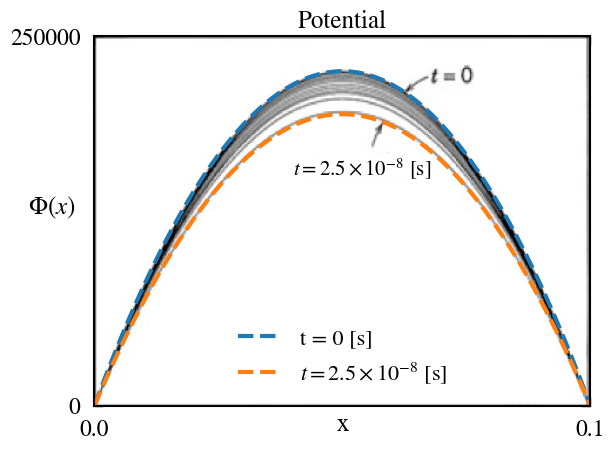
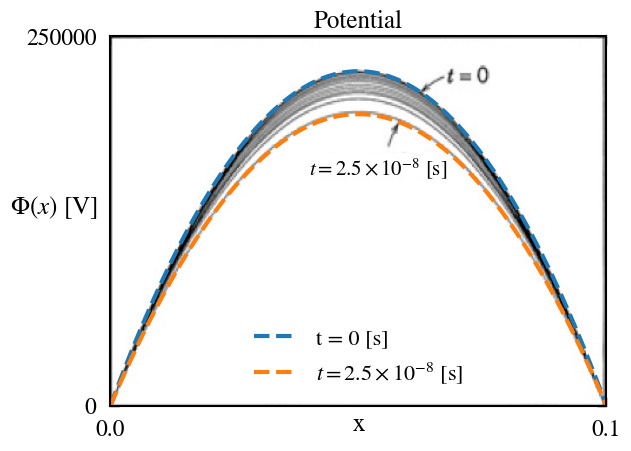
updating comparison figure

diff --git a/test/tests/benchmarking/plot_lieberman_results.py b/test/tests/benchmarking/plot_lieberman_results.py
@@ -122,7 +122,7 @@ df = pd.read_csv(final_potential_file)
 ax.plot(df["x"], df["phi"], '--',label="$t=2.5\\times 10^{-8}$ [s]")
 ax.legend()
 ax.set_title('Potential', y=1)
-ax.set_ylabel("$\Phi(x)$", rotation=0, labelpad=-30)
+ax.set_ylabel("$\Phi(x)$ [V]", rotation=0, labelpad=-20)
 ax.set_xlabel("x", labelpad=-20)
 ax.imshow(im, extent=[xmin, xmax, ymin, ymax], aspect='auto')
 ax.tick_params(axis='both', which='major', pad=10)

diff --git a/doc/content/verification_validation_examples/plasma/lieberman.md b/doc/content/verification_validation_examples/plasma/lieberman.md
@@ -1,6 +1,6 @@
 # Lieberman Ion Wall Losses
 
-This benchmark case is based on the example presented in [!cite](lieberman1994principles), chapter 1, pages 26-27
+This benchmark case is based on the example presented in [!cite](lieberman1994principles), chapter 1, pages 26-27. This case presents some basic PIC simulation results from an unnamed finite difference based PIC code.
 
 ## Problem Description
 
@@ -153,28 +153,17 @@ and the test function. These objects contribute to the residual of the electrost
 
 ## Results
 
-!row! style=display:inline-flex;
-!col! small=12 medium=4 large=3
-
-!media figures/lieberman_vdf_comparison.png style=width:120%;display:block;
-
-!col-end!
-
-!col! small=12 medium=4 large=3
-
-!media figures/lieberman_population_comparison.png style=width:120%;display:block;
-
-!col-end!
-!row-end!
-
+Results of the FENIX simulation are directly to compared to those reported in [!cite](lieberman1994principles), the comparison of these results is accomplished by using the figures in figure 2.2 of [!cite](lieberman1994principles) and plotting the FENIX results directly on top of them, ensuring that the bounds of the axes presented in  [!cite](lieberman1994principles) are maintained. As seen in these figures FENIX is able to reproduce the results nearly exactly.
 
 !row! style=display:inline-flex;
-!col! small=12 medium=4 large=3
 
-!media figures/lieberman_potential_comparison.png style=width:120%;display:block;
+!media figures/lieberman_vdf_comparison.png style=width:90%;display:block;margin-left:auto;margin-right:auto;
 
-!col-end!
+!media figures/lieberman_population_comparison.png style=width:88%;display:block;margin-left:auto;margin-right:auto;
+
 !row-end!
+
+!media figures/lieberman_potential_comparison.png style=width:50%;display:block;margin-left:auto;margin-right:auto;
 
 
 ## Running the Case
